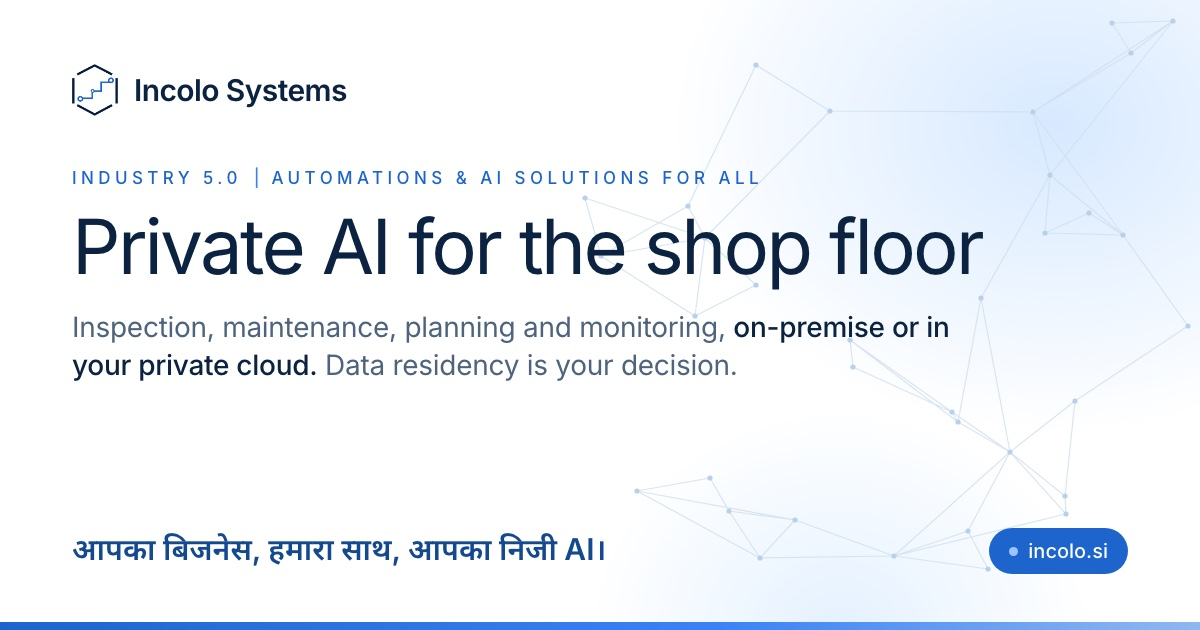
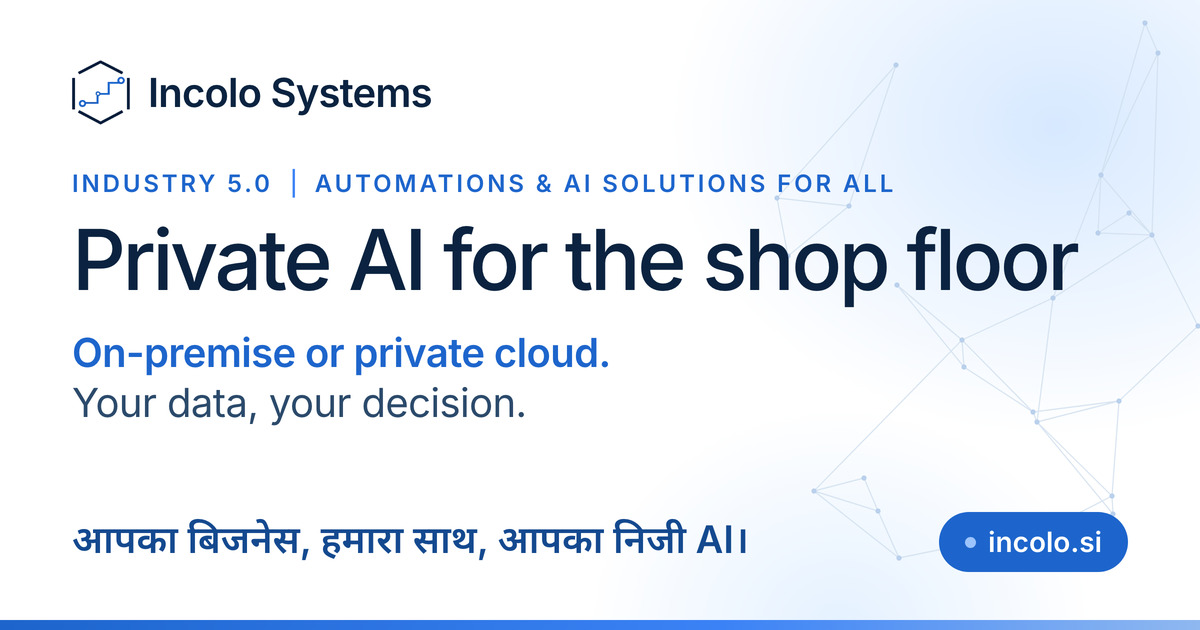
Sharper link preview (og-image-v3): larger type, 2x render, 4:4:4 JPEG
LinkedIn/WhatsApp show the card ~550px wide, so small lines blurred.
Bigger headline/sub/tagline, shorter message, rendered at 2x and
Lanczos-downscaled, saved without chroma subsampling. New URL forces
refetch; v2 and legacy og-image.jpg paths now serve the same art.

diff --git a/scripts/og/og-image.html b/scripts/og/og-image.html
@@ -1,7 +1,8 @@
 <!DOCTYPE html>
 <!-- Source for the 1200×630 link-preview image (WhatsApp, Facebook, LinkedIn, X).
-     Render with:  npm run og   → site/media/og-image-v2.jpg
-     When the wording changes, bump the file name (v3, …) in package.json + data/site.json,
+     Render with:  npm run og   → site/media/og-image-v3.jpg (rendered at 2×, downscaled, 4:4:4 JPEG)
+     Keep text large: LinkedIn/WhatsApp show this ~550px wide, so anything under ~30px here blurs.
+     When the wording changes, bump the file name (v4, …) in scripts/og/shot.json + data/site.json,
      because Facebook and WhatsApp cache preview images by URL. -->
 <html lang="en">
 <head>
@@ -20,19 +21,19 @@
       #ffffff;
   }
   svg.net { position: absolute; inset: 0; width: 100%; height: 100%; }
-  .card { position: absolute; inset: 0; padding: 64px 72px 56px; display: flex; flex-direction: column; }
-  .brand { display: flex; align-items: center; gap: 16px; font-size: 30px; font-weight: 600; letter-spacing: -0.02em; }
-  .brand img { width: 46px; height: auto; }
-  .eyebrow { margin-top: 52px; font-size: 17px; font-weight: 500; letter-spacing: .26em; text-transform: uppercase; color: #1d65cc; }
+  .card { position: absolute; inset: 0; padding: 60px 72px 58px; display: flex; flex-direction: column; }
+  .brand { display: flex; align-items: center; gap: 18px; font-size: 40px; font-weight: 600; letter-spacing: -0.02em; }
+  .brand img { width: 58px; height: auto; }
+  .eyebrow { margin-top: 44px; font-size: 24px; font-weight: 600; letter-spacing: .12em; text-transform: uppercase; color: #1d65cc; }
   .eyebrow b { font-weight: 500; color: #3b82f6; margin: 0 .7em; letter-spacing: 0; }
-  h1 { margin-top: 18px; font-size: 76px; line-height: 80px; font-weight: 400; letter-spacing: -0.035em; }
-  .sub { margin-top: 22px; max-width: 900px; font-size: 28px; line-height: 38px; color: #4f647c; letter-spacing: -0.01em; }
-  .sub strong { color: #0b2340; font-weight: 500; }
+  h1 { margin-top: 16px; font-size: 84px; line-height: 92px; font-weight: 500; letter-spacing: -0.04em; white-space: nowrap; }
+  .sub { margin-top: 22px; font-size: 40px; line-height: 50px; color: #2b4a6b; letter-spacing: -0.015em; }
+  .sub strong { color: #1d65cc; font-weight: 600; }
   .foot { margin-top: auto; display: flex; align-items: center; justify-content: space-between; }
-  .hi { font-family: 'Noto Sans Devanagari', 'Inter var', sans-serif; font-size: 30px; font-weight: 600; color: #14498f; }
-  .pill { display: inline-flex; align-items: center; gap: 10px; height: 46px; padding: 0 20px; border-radius: 999px; background: #1d65cc; color: #fff; font-size: 20px; font-weight: 500; }
-  .pill i { width: 9px; height: 9px; border-radius: 50%; background: #9cc4ff; }
-  .rule { position: absolute; left: 0; right: 0; bottom: 0; height: 8px; background: linear-gradient(90deg, #1d65cc, #3b82f6 60%, #8fb8f0); }
+  .hi { font-family: 'Noto Sans Devanagari', 'Inter var', sans-serif; font-size: 38px; font-weight: 600; color: #14498f; }
+  .pill { display: inline-flex; align-items: center; gap: 12px; height: 60px; padding: 0 26px; border-radius: 999px; background: #1d65cc; color: #fff; font-size: 28px; font-weight: 600; }
+  .pill i { width: 11px; height: 11px; border-radius: 50%; background: #9cc4ff; }
+  .rule { position: absolute; left: 0; right: 0; bottom: 0; height: 10px; background: linear-gradient(90deg, #1d65cc, #3b82f6 60%, #8fb8f0); }
 </style>
 </head>
 <body>
@@ -41,7 +42,7 @@
     <div class="brand"><img src="../../site/media/logo-mark.png" alt="" />Incolo Systems</div>
     <p class="eyebrow">Industry 5.0<b>|</b>Automations &amp; AI solutions for all</p>
     <h1>Private AI for the shop floor</h1>
-    <p class="sub">Inspection, maintenance, planning and monitoring, <strong>on-premise or in your private cloud.</strong> Data residency is your decision.</p>
+    <p class="sub"><strong>On-premise or private cloud.</strong><br />Your data, your decision.</p>
     <div class="foot">
       <span class="hi" lang="hi">आपका बिजनेस, हमारा साथ, आपका निजी AI।</span>
       <span class="pill"><i></i>incolo.si</span>
@@ -51,7 +52,7 @@
   <script>
     // Same seeded network-line texture as the site hero, kept to the right-hand side.
     let seed = 11; const rnd = () => ((seed = (seed * 9301 + 49297) % 233280) / 233280);
-    const pts = []; for (let i = 0; i < 34; i++) pts.push([560 + rnd() * 660, rnd() * 630]);
+    const pts = []; for (let i = 0; i < 26; i++) pts.push([760 + rnd() * 460, rnd() * 630]);
     let d = '';
     pts.forEach((p, i) => pts.map((q, j) => [j, Math.hypot(p[0] - q[0], p[1] - q[1])]).filter(([j]) => j > i)
       .sort((a, b) => a[1] - b[1]).slice(0, 2).forEach(([j, dist]) => { if (dist < 220) d += `M${p[0]|0} ${p[1]|0}L${pts[j][0]|0} ${pts[j][1]|0}`; }));

diff --git a/scripts/og/finish.py b/scripts/og/finish.py
@@ -1,0 +1,20 @@
+#!/usr/bin/env python3
+"""Turn the 2x render into the published preview image.
+
+Downscales 2400x1260 -> 1200x630 with Lanczos (crisper text edges than rendering at 1x)
+and saves JPEG with 4:4:4 chroma (no colour subsampling), which keeps thin blue text sharp.
+Usage: python3 scripts/og/finish.py <render.png> <out.jpg>
+"""
+import os
+import sys
+from PIL import Image
+
+src, out = sys.argv[1], sys.argv[2]
+im = Image.open(src).convert('RGB')
+if im.size != (1200, 630):
+    im = im.resize((1200, 630), Image.LANCZOS)
+im.save(out, 'JPEG', quality=92, subsampling=0, optimize=True, progressive=True)
+size = os.path.getsize(out)
+print(f'{out}: {im.size[0]}x{im.size[1]}, {size // 1024} KB')
+if size > 300 * 1024:
+    sys.exit('Too large for reliable WhatsApp previews (keep under ~300 KB)')

diff --git a/docs/MIGRATION.md b/docs/MIGRATION.md
@@ -120,7 +120,7 @@ Then send one real enquiry through `https://incolo.si/contact` and confirm the e
 
 | Where | What to do |
 |---|---|
-| **Facebook Sharing Debugger** (developers.facebook.com/tools/debug) | Enter `https://incolo.si/` and click **Scrape Again**. This refreshes the preview for Facebook, Messenger and Instagram links. The card should show the new image (`og-image-v2.jpg`, white with "Private AI for the shop floor"). If it shows the old dark image, the server isn't on the latest build yet. |
+| **Facebook Sharing Debugger** (developers.facebook.com/tools/debug) | Enter `https://incolo.si/` and click **Scrape Again**. This refreshes the preview for Facebook, Messenger and Instagram links. The card should show the new image (`og-image-v3.jpg`, white with "Private AI for the shop floor"). If it shows the old dark image, the server isn't on the latest build yet. |
 | **"Missing property fb:app_id" warning** | Harmless: previews and verification still work. To clear it, put your Facebook App ID (developers.facebook.com → My Apps) in `data/site.json → facebookAppId`, then rebuild and restart. |
 | **Meta Business Suite → Brand safety → Domains** | Confirm `incolo.si` still shows **Verified**. The tags are unchanged, so it should. |
 | **WhatsApp** | WhatsApp caches previews per URL. To check the new preview immediately, share `https://incolo.si/?v=2` in a chat with yourself. Plain links refresh on their own over time. |
@@ -152,7 +152,7 @@ sudo systemctl restart incolo
 bash scripts/verify-prod.sh https://incolo.si
 ```
 
-**Changing the preview image:** edit `scripts/og/og-image.html`, run `npm run og` on a Mac, and **give the image a new file name** (`og-image-v3.jpg`, set in `data/site.json → ogImage` and `scripts/og/shot.json`). Facebook and WhatsApp cache images by URL, so reusing a name keeps showing the old picture.
+**Changing the preview image:** edit `scripts/og/og-image.html`, run `npm run og` on a Mac, and **give the image a new file name** (`og-image-v4.jpg`, set in `data/site.json → ogImage`, `scripts/og/shot.json` and the `og` script in `package.json`). Keep the text large: link cards are shown about 550 px wide. Facebook and WhatsApp cache images by URL, so reusing a name keeps showing the old picture.
 
 **Never edit HTML on the server.** Production-only changes, like the Facebook tags were, get lost on the next deploy. Make them in the repo instead:
 
